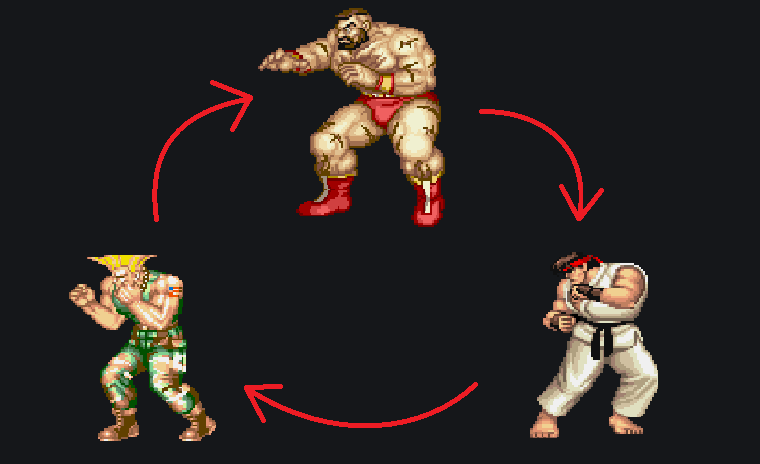
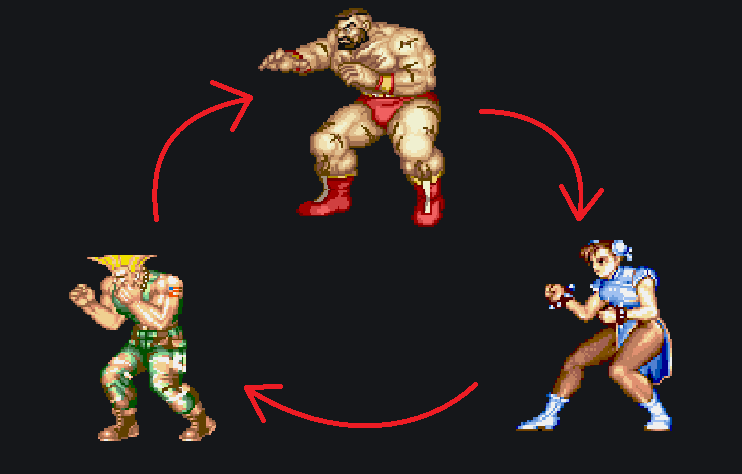
teste de primeiro post

diff --git a/_posts/2021-04-06-pedra-papel-tesoura.md b/_posts/2021-04-06-pedra-papel-tesoura.md
@@ -77,9 +77,27 @@ jogados vários jogos seguidos de RPS, onde cada vitória representa uma pequena
 um *Hadouken* quando seu oponente bloqueia dá 2% de dano *on block*, por exemplo. O vencedor do *round* é, portanto, 
 aquele que primeiro vence uma série de várias rodadas de RPS.
 
-Também é possível usar o RPS em uma macro-escala. No *Street Fighter*, por exemplo, existe também
+Também é possível usar o RPS em uma macro-escala. No *Street Fighter*, por exemplo, existem grupos de personagens 
+que se encaixam, em diferentes quantidades, em uma de três caixas: *Grappler*, *Charge* ou *Rusher*. 
+*Grapplers* são aqueles que se beneficiam de lutas à curta distância, mas que possuem dificuldade em se aproximar de 
+suas vítimas; *Rushers* são personagens que dependem da sua mobilidade boa para se aproximar dos seus inimigos ... 
+são velozes, porém frágeis; e personagens de *Charge*, que são aqueles que possuem mobilidade reduzida, mas são ótimos 
+em punir aqueles que dão tempo para eles carregarem seus movimentos (daí o nome *Charger*)... eles são bons em reagir e 
+manter a distância, mas se ficarem de cara com seus inimigos, rapidamente sucumbem.
 
 <img src="{{site.baseurl}}/assets/img/rps-matchups.png">
+
+Fica bem claro que, nesse caso, existem vantagens mesmo antes da partida começar, dependendo do *match-up* que é 
+selecionado. Os *Grapplers* possuem muita dificuldade de se aproximar dos personagens de *Charge*, que se beneficiam 
+dessa distância, normalmente por possuir algum projétil bom que impede o lento e devastador *Grappler* de colar nele.
+Os *Rushers* adoram jogar contra personagens de *Charge*, pois, assim que conseguirem se aproximar (graças à sua 
+mobilidade aumentada), a luta fica à seu favor, já que os *Chargers* não podem se beneficiar de suas habilidades à 
+longa distância. E, finalmente, os *Grapplers* ficam tranquilos ao lutar contra *Rushers*, pois não precisam se 
+preocupar em se aproximar deles... é só esperar que a *Chun-Li* (uma clássica *Rusher*) venha pra cima de você, 
+afinal, ela depende de ficar próxima pra lutar, e assim que a luta ficar no mano-a-mano, o poder devastador de um 
+*Grappler* consegue se sobressair encima da fragilidade de seu oponente.
+
+
 
 
 
